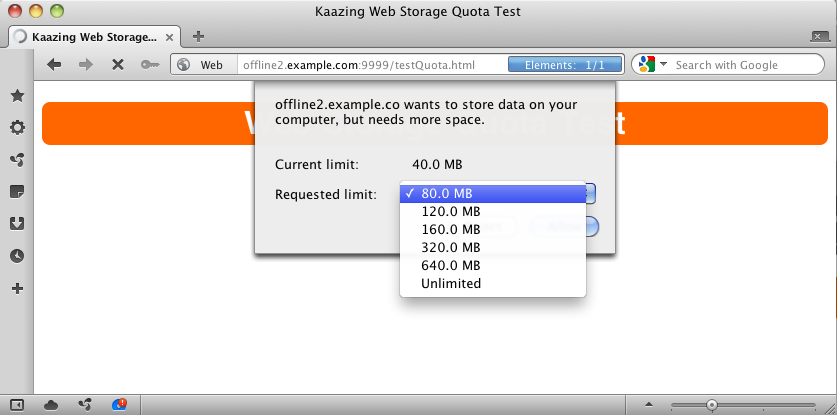
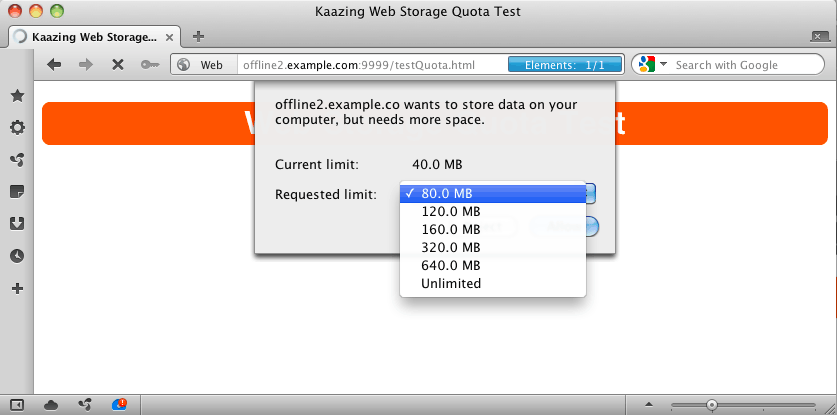
compressing images for ch11

diff --git a/v5/pro-html5-programming/ch11.html b/v5/pro-html5-programming/ch11.html
@@ -395,7 +395,7 @@ window.addEventListener("storage", displayStorageEvent, true);</code></pre>
   <p>In order to achieve this, we&#x2019;ll need to introduce a demonstration web site that can save and restore our racer data. We&#x2019;ve created a three-page example running race site and placed it in our online resources in the folder <code>code/storage</code>, but you can use any site of your choosing for your own demonstration. The key here is merely that you have multiple web pages that are easily traversed by a user. We will insert a bit of dynamic content into those pages to represent a live leader board, or a list of race participants and their current distance from the finish line. Figure 11-8 shows the three pages that make up the race site.</p>
 
   <figure class="image">
-    <img src="images/ch11/fig11-8.gif" />
+    <img src="images/ch11/fig11-8.png" />
     <figcaption>Figure 11-8. The example race website</figcaption>
   </figure>
 
@@ -471,7 +471,7 @@ function displayRacerLocation(name, distance) {
   <p>This utility is a simple display routine, which takes the racer&#x2019;s name and distance from the finish line. Figure 11-9 shows what the leader board section looks like on the <code>index.html</code> page.</p>
 
   <figure class="image">
-    <img src="images/ch11/fig11-9.gif" />
+    <img src="images/ch11/fig11-9.png" />
     <figcaption>Figure 11-9. The race leader board</figcaption>
   </figure>
 
@@ -701,7 +701,7 @@ if (window.WebSocket) {
   <p>To try it out for yourself, open two windows in a browser that supports Web Storage, Geolocation, and WebSocket, such as Google Chrome. In the first, load the running club&#x2019;s <code>index.html</code> page. You will see it connect to the race broadcast site using WebSocket and then await any racer data notifications. In the second window, open the <code>racerBroadcast.html</code> file. After this page, too, has connected to the WebSocket broadcast site, enter a name for your racer, and click the Start button. You&#x2019;ll see that the racer broadcast has transmitted the location of your favorite racer, and it should show up in the leader board in your other browser window. Figure 11-10 shows what this looks like.</p>
 
   <figure class="image">
-    <img src="images/ch11/fig11-10.gif" />
+    <img src="images/ch11/fig11-10.png" />
     <figcaption>Figure 11-10. Race page and racerBroadcast.html side by side</figcaption>
   </figure>
 
@@ -965,7 +965,7 @@ window.addEventListener("storage", displayStorageEvent, true);</code></pre>
   <p>After registering an event listener for the <code>storage</code> event type, this window will receive notification of storage changes in any pages. For example, if a browser window viewing <code>http://www.example.com/browser-test.html</code> that is currently browsing the same origin sets or changes a new storage value, the <code>storageLog.html</code> page will receive a notification. Therefore, to send a message to a receiving window, the sending window need only modify a storage object, and its old and new values will be sent as part of the notification. For example, if a storage value is updated using <code>localStorage.setItem()</code>, then the <code>displayStorageEvent()</code> handler in the <code>storageLog.html</code> page hosted at the same origin will receive an event. By carefully coordinating event names and values, the two pages can now communicate, a feat which has been difficult to accomplish before. Figure 11-13 shows the <code>storageLog.html</code> page in action, simply logging storage events it receives.</p>
 
   <figure class="image">
-    <img src="images/ch11/fig11-13.gif" />
+    <img src="images/ch11/fig11-13.png" />
     <figcaption>Figure 11-13. The storageLog.html page logging storage eventsSummary</figcaption>
   </figure>
 
